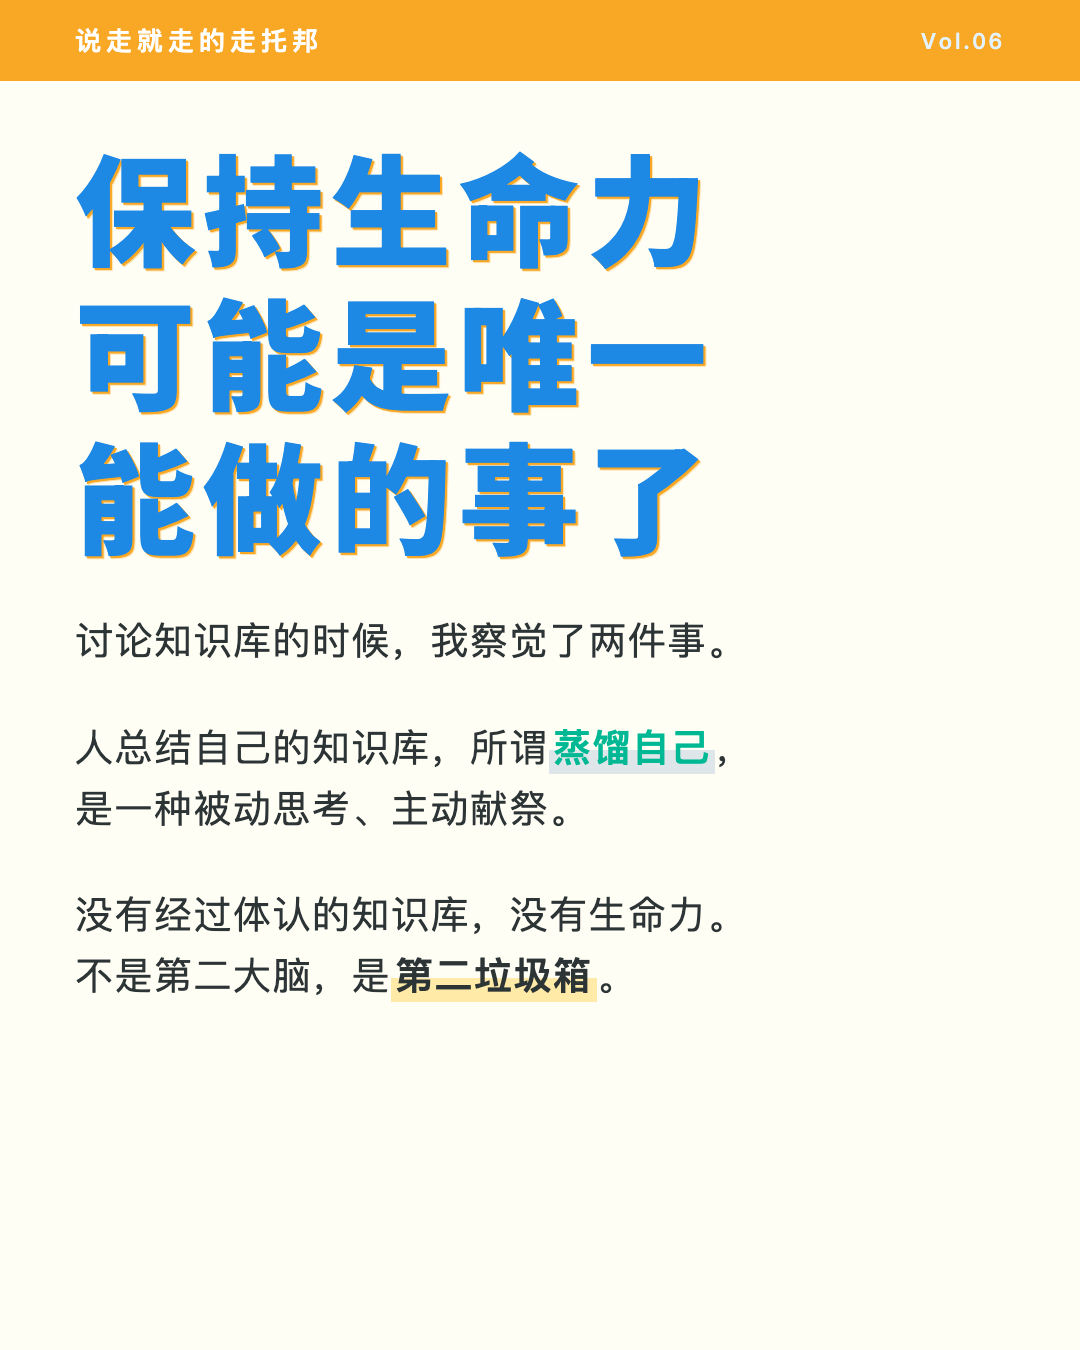
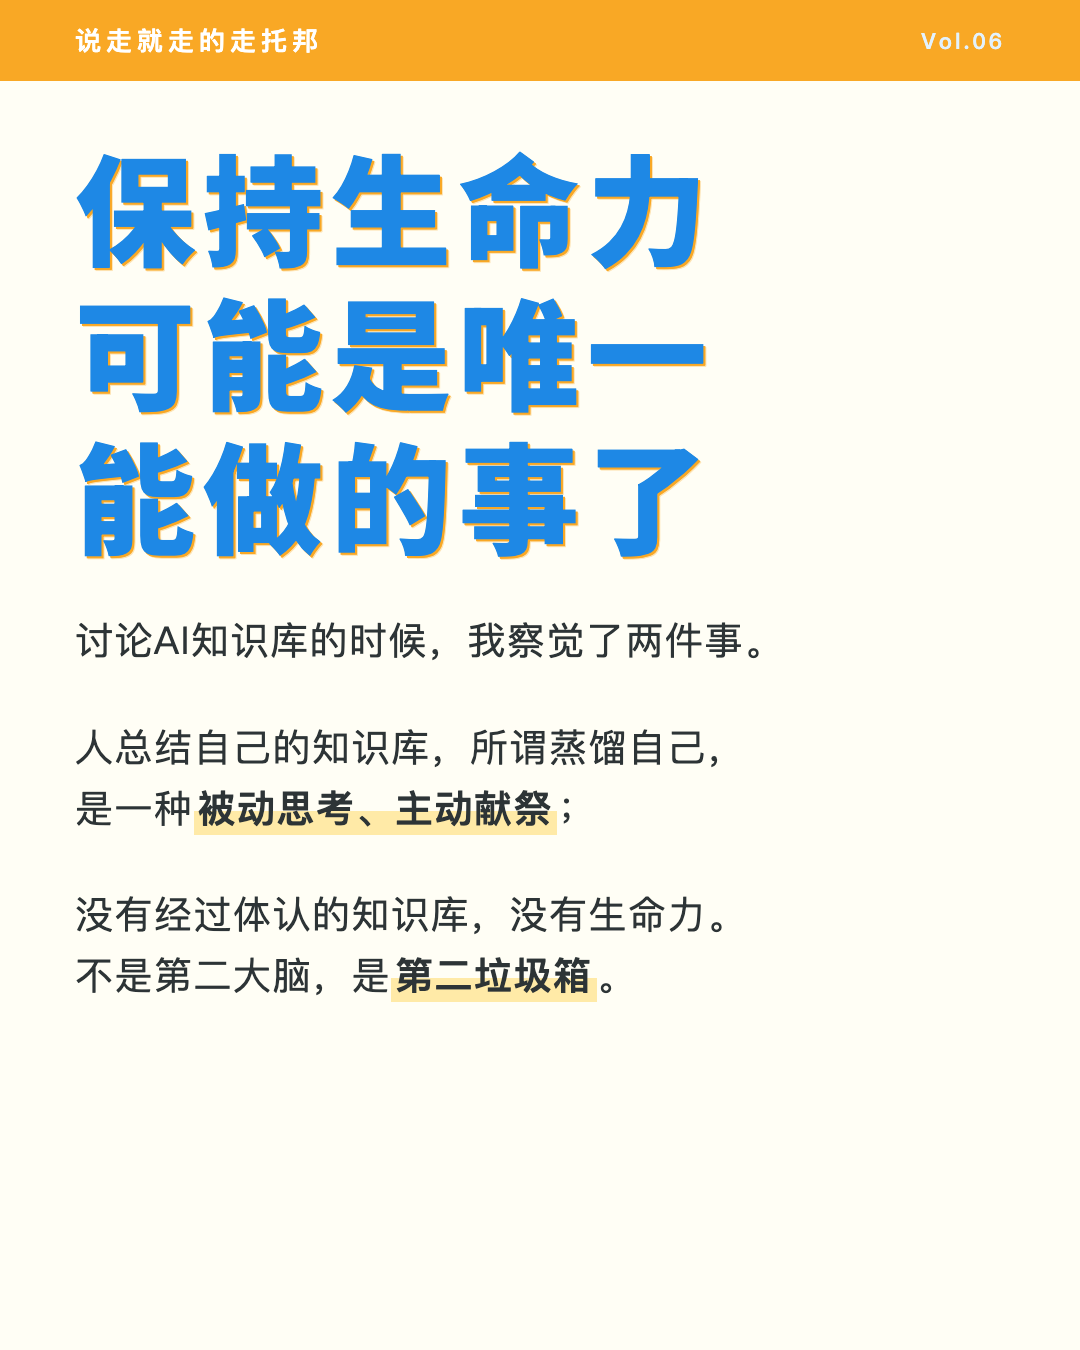
Vol.06: 封面高亮调整、卡片文本同步

Changed region(s): [[0.1833, 0.5289, 0.6722, 0.6222], [0.1222, 0.4356, 0.7028, 0.4978]]

diff --git a/vol06/card-v06-3.html b/vol06/card-v06-3.html
@@ -21,9 +21,10 @@
 <div class="card">
   <div class="header-strip"><span class="brand">说走就走的走托邦</span><span class="tag">Vol.06</span></div>
   <div class="body-text">
-    <div class="para"><p>教育也走到了更大的十字路口。<br>拿着旧地图找新大陆的，<br>走在没路的地方投石问路的，<br>一边迷茫一边崩溃的。</p></div>
+    <div class="para"><p>教育也走到了更大的十字路口。</p></div>
+    <div class="para"><p>拿着旧地图找新大陆的，<br>走在没路的地方投石问路的，<br>一边迷茫一边崩溃的。</p></div>
     <div class="para"><p>我反而有一种<span class="hl-yellow">旁观者</span>的心态。</p></div>
-    <div class="para"><p>由始至终，我都不在洪流中央。<br>没有跟风没有高飞，也不至于摔得太痛。<br>什么是我本来的，什么是风带来的。<br>知之为知之，不知为不知。</p></div>
+    <div class="para"><p>由始至终，我都不在洪流中央。<br>没有跟风没有高飞，也不至于摔得太痛。<br>什么是我本来的，什么是风带来的，<br><span class="hl-yellow">知之为知之，不知为不知。</span></p></div>
   </div>
 </div>
 </body>

diff --git a/vol06/card-v06-1.html b/vol06/card-v06-1.html
@@ -33,8 +33,8 @@
       <div class="line">能做的事了</div>
     </div>
     <div class="body-short">
-      <div class="para"><p>讨论知识库的时候，我察觉了两件事。</p></div>
-      <div class="para"><p>人总结自己的知识库，所谓<span class="hl-teal">蒸馏自己</span>，<br>是一种被动思考、主动献祭。</p></div>
+      <div class="para"><p>讨论AI知识库的时候，我察觉了两件事。</p></div>
+      <div class="para"><p>人总结自己的知识库，所谓蒸馏自己，<br>是一种<span class="hl-yellow">被动思考、主动献祭</span>；</p></div>
       <div class="para"><p>没有经过体认的知识库，没有生命力。<br>不是第二大脑，是<span class="hl-yellow">第二垃圾箱</span>。</p></div>
     </div>
   </div>

diff --git a/vol06/card-v06-2.html b/vol06/card-v06-2.html
@@ -23,7 +23,7 @@
   <div class="body-text">
     <div class="para"><p>知识库只是一个缩影。</p></div>
     <div class="para"><p>今年很少有人说"明年会更好"了。<br>投资、消费、出口，轮番往下走。<br>念书换来的证书，加班换来的位置，<br>都不如以前值钱了。</p></div>
-    <div class="para"><p>上行那几年分不清楚——<br>哪些是环境的，哪些是平台的，<br>哪些才是自己的。<br>上行时期的获得感，<br>现在都变成了<span class="hl-yellow">匮乏感</span>。</p></div>
+    <div class="para"><p>上行那几年分不清楚——<br>哪些是环境的，哪些是平台的，<br>哪些才是自己的。<br><span class="hl-yellow">上行时期的获得感，<br>现在都变成了匮乏感。</span></p></div>
   </div>
 </div>
 </body>

diff --git a/article-7-final.md b/article-7-final.md
@@ -1,7 +1,7 @@
-讨论知识库的时候，我察觉了两件事。
+讨论AI知识库的时候，我察觉了两件事。
 
 人总结自己的知识库，所谓蒸馏自己，
-是一种被动思考、主动献祭。
+是一种被动思考、主动献祭；
 
 没有经过体认的知识库，没有生命力。
 不是第二大脑，是第二垃圾箱。